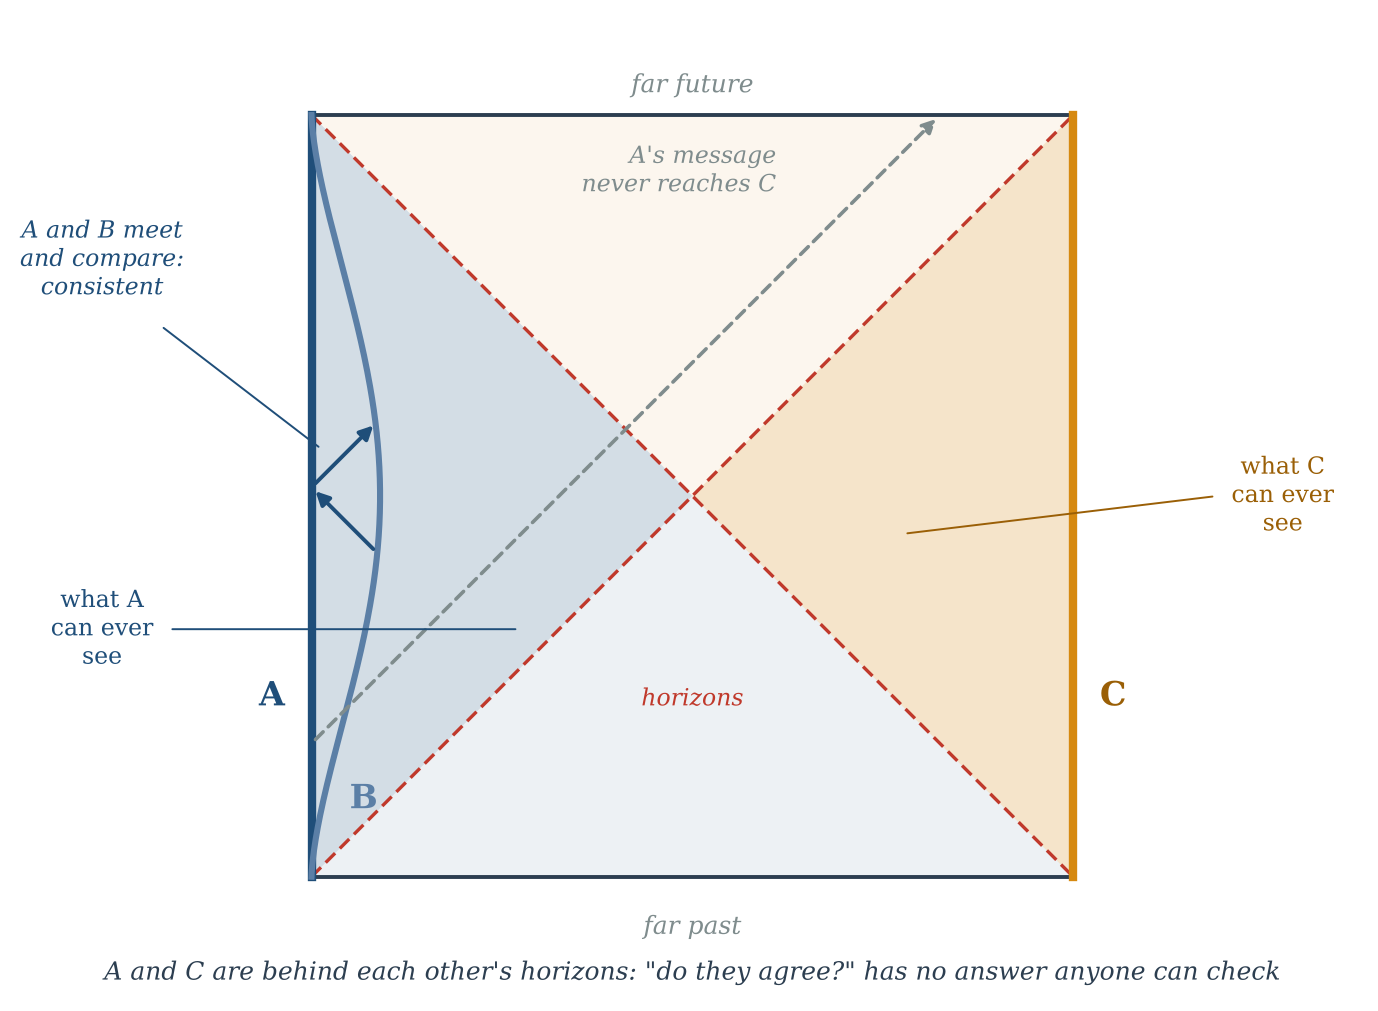
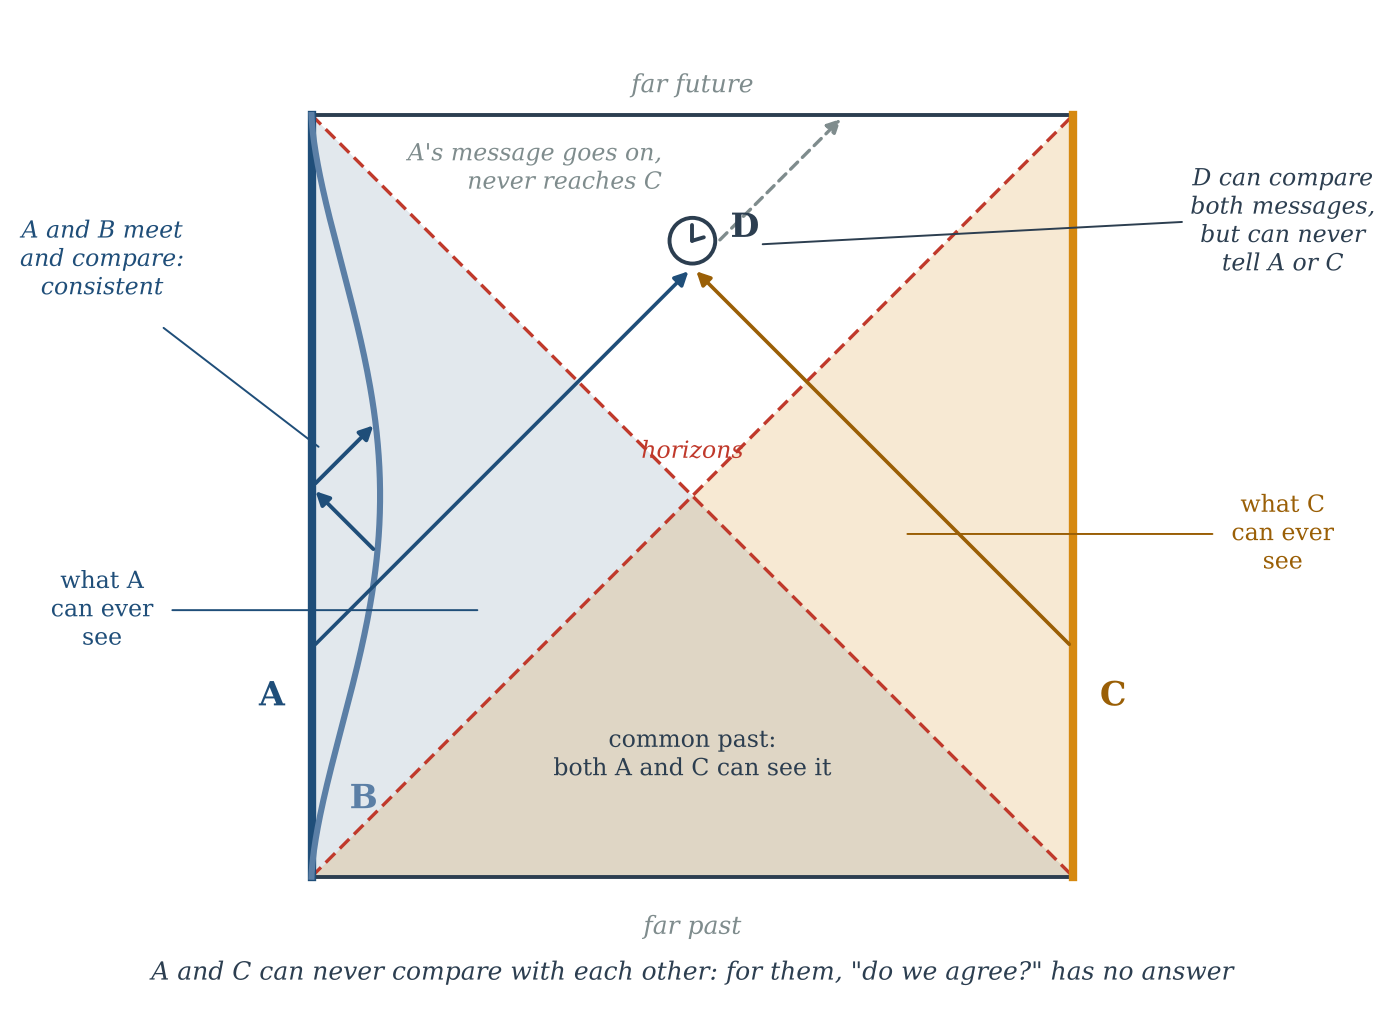
What Survives Comparison: second physics pass, corrected horizon figure
Records agree when compared only if nobody undid them first; Brandao-Piani-
Horodecki stated precisely; A and C share a common past and a third observer
can compare their messages; reply by Cavalcanti, Di Biagio and Rovelli.

Claude-Session: https://claude.ai/code/session_01UYvjvQKYffoYPGEYwTfMpP

diff --git a/posts/2026-10-25-what-survives-comparison/figs.py b/posts/2026-10-25-what-survives-comparison/figs.py
@@ -170,11 +170,9 @@ def fig_horizons():
     fig, ax = plt.subplots(figsize=(8.6, 6.4))
     ax.set_aspect("equal"); ax.axis("off"); ax.set_xlim(-1.75, 1.75); ax.set_ylim(-1.3, 1.25)
 
-    # Shading: what observers near the north pole (left) can ever see and ever reach
-    ax.add_patch(Polygon([(-1, -1), (-1, 1), (1, -1)], fc=NAVY, alpha=0.08, lw=0))
-    ax.add_patch(Polygon([(-1, 1), (1, 1), (1, -1)], fc=AMBER, alpha=0.07, lw=0))
-    ax.add_patch(Polygon([(-1, -1), (-1, 1), (0, 0)], fc=NAVY, alpha=0.12, lw=0))     # A's static patch
-    ax.add_patch(Polygon([(1, -1), (1, 1), (0, 0)], fc=AMBER, alpha=0.16, lw=0))      # C's static patch
+    # Shading: everything A can ever see (its causal past) and everything C can ever see; they overlap below
+    ax.add_patch(Polygon([(-1, -1), (-1, 1), (1, -1)], fc=NAVY, alpha=0.13, lw=0))
+    ax.add_patch(Polygon([(-1, -1), (1, -1), (1, 1)], fc=AMBER, alpha=0.18, lw=0))
     ax.plot([-1, 1, 1, -1, -1], [-1, -1, 1, 1, -1], color=INK, lw=1.4)
     ax.plot([-1, 1], [-1, 1], color=RED, lw=1.2, ls=(0, (4, 2)))
     ax.plot([-1, 1], [1, -1], color=RED, lw=1.2, ls=(0, (4, 2)))
@@ -198,20 +196,30 @@ def fig_horizons():
                 arrowprops=dict(arrowstyle="-|>", color=NAVY, lw=1.4))
     ax.annotate("", xy=(xb, y0 + 2 * (xb + 1)), xytext=(-1, y0 + (xb + 1)),
                 arrowprops=dict(arrowstyle="-|>", color=NAVY, lw=1.4))
-    ax.text(-1.55, 0.62, "A and B meet\nand compare:\nconsistent", ha="center", va="center", fontsize=8.5, color=NAVY, style="italic")
+    ax.text(-1.55, 0.62, "A and B meet\nand compare:\nconsistent", ha="center", va="center", fontsize=8.5,
+            color=NAVY, style="italic")
     ax.annotate("", xy=(-0.97, 0.12), xytext=(-1.4, 0.45), arrowprops=dict(arrowstyle="-", color=NAVY, lw=0.7))
 
-    # A tries to send its record to C: the ray hits the far future first
-    ax.annotate("", xy=(0.65, 1), xytext=(-1, -0.65), arrowprops=dict(arrowstyle="-|>", color=GREY, lw=1.3,
-                                                                       ls=(0, (3, 2))))
-    ax.text(0.22, 0.8, "A's message\nnever reaches C", fontsize=8.5, color=GREY, style="italic", ha="right")
+    # A and C each send a message early; a third observer D, between them, catches both
+    D = (0, 0.6)
+    ax.annotate("", xy=D, xytext=(-1, -0.4), arrowprops=dict(arrowstyle="-|>", color=NAVY, lw=1.3))
+    ax.annotate("", xy=D, xytext=(1, -0.4), arrowprops=dict(arrowstyle="-|>", color="#9a5f06", lw=1.3))
+    ax.annotate("", xy=(0.4, 1), xytext=D, arrowprops=dict(arrowstyle="-|>", color=GREY, lw=1.2, ls=(0, (3, 2))))
+    clock(ax, D[0], D[1] + 0.07, 0.06)
+    ax.text(0.1, 0.68, "D", fontsize=12, weight="bold", color=INK)
+    ax.text(-0.08, 0.86, "A's message goes on,\nnever reaches C", fontsize=8.5, color=GREY, style="italic",
+            ha="right", va="center")
+    ax.text(1.55, 0.72, "D can compare\nboth messages,\nbut can never\ntell A or C", ha="center", va="center",
+            fontsize=8.5, color=INK, style="italic")
+    ax.annotate("", xy=(0.17, 0.66), xytext=(1.3, 0.72), arrowprops=dict(arrowstyle="-", color=INK, lw=0.7))
 
-    ax.text(0, -0.55, "horizons", ha="center", fontsize=8.5, color=RED, style="italic")
-    ax.text(-1.55, -0.35, "what A\ncan ever\nsee", ha="center", fontsize=8.5, color=NAVY, va="center")
-    ax.text(1.55, 0, "what C\ncan ever\nsee", ha="center", fontsize=8.5, color="#9a5f06", va="center")
-    ax.annotate("", xy=(-0.45, -0.35), xytext=(-1.38, -0.35), arrowprops=dict(arrowstyle="-", color=NAVY, lw=0.7))
-    ax.annotate("", xy=(0.55, -0.1), xytext=(1.38, 0), arrowprops=dict(arrowstyle="-", color="#9a5f06", lw=0.7))
-    ax.text(0, -1.27, "A and C are behind each other's horizons: \"do they agree?\" has no answer anyone can check",
+    ax.text(0, 0.1, "horizons", ha="center", fontsize=8.5, color=RED, style="italic")
+    ax.text(0, -0.68, "common past:\nboth A and C can see it", ha="center", va="center", fontsize=8.5, color=INK)
+    ax.text(-1.55, -0.3, "what A\ncan ever\nsee", ha="center", fontsize=8.5, color=NAVY, va="center")
+    ax.text(1.55, -0.1, "what C\ncan ever\nsee", ha="center", fontsize=8.5, color="#9a5f06", va="center")
+    ax.annotate("", xy=(-0.55, -0.3), xytext=(-1.38, -0.3), arrowprops=dict(arrowstyle="-", color=NAVY, lw=0.7))
+    ax.annotate("", xy=(0.55, -0.1), xytext=(1.38, -0.1), arrowprops=dict(arrowstyle="-", color="#9a5f06", lw=0.7))
+    ax.text(0, -1.27, "A and C can never compare with each other: for them, \"do we agree?\" has no answer",
             ha="center", fontsize=9, color=INK, style="italic")
     fig.savefig(OUT + "fig03.png"); plt.close(fig)
 
